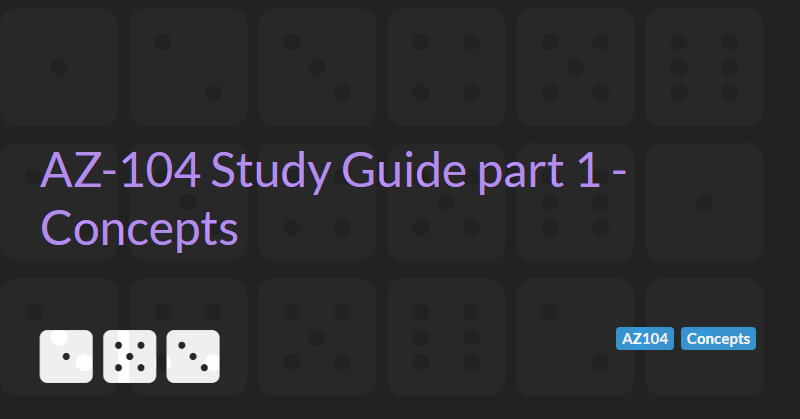
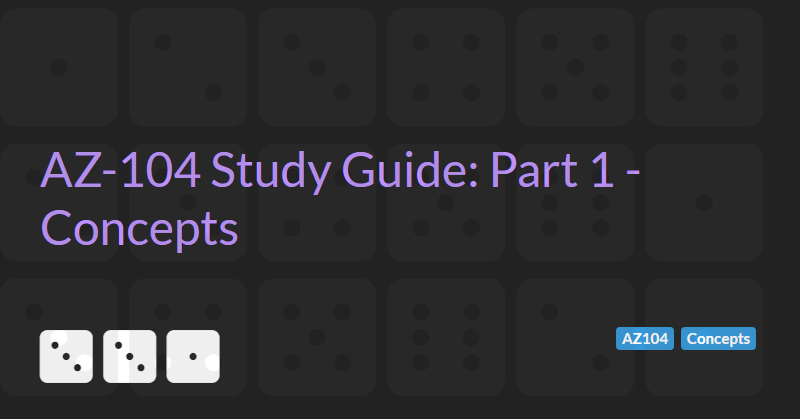
Blog Update 218

diff --git a/Blog/all.html b/Blog/all.html
@@ -58,7 +58,7 @@
 
 <ul class="list-group list-group-flush">
     <li class="list-group-item">
-        <h4><a href="./DataScienceForDevs/Part1-Foundations.html">Data Science for Developers part 1 - Foundations</a></h4>
+        <h4><a href="./DataScienceForDevs/Part1-Foundations.html">Data Science for Developers: Part 1 - Foundations</a></h4>
         <div>
             <span class="badge badge-info">DataScience</span>
             <span class="badge badge-info">ML</span>
@@ -93,7 +93,7 @@
             <p class="text-muted">May 21, 2024</p>
     </li>
     <li class="list-group-item">
-        <h4><a href="./Azure/AZ-104-StudyNotes/Part6-VirtualMachines.html">AZ-105 Study Guide part 6 - Virtual Machines</a></h4>
+        <h4><a href="./Azure/AZ-104-StudyNotes/Part6-VirtualMachines.html">AZ-105 Study Guide: Part 6 - Virtual Machines</a></h4>
         <div>
             <span class="badge badge-info">AZ104</span>
             <span class="badge badge-info">Concepts</span>
@@ -105,7 +105,7 @@
             <p class="text-muted">Aug 17, 2022</p>
     </li>
     <li class="list-group-item">
-        <h4><a href="./Azure/AZ-104-StudyNotes/Part5-StorageAccounts.html">AZ-104 Study Guide part 5 - Storage Accounts</a></h4>
+        <h4><a href="./Azure/AZ-104-StudyNotes/Part5-StorageAccounts.html">AZ-104 Study Guide: Part 5 - Storage Accounts</a></h4>
         <div>
             <span class="badge badge-info">AZ104</span>
             <span class="badge badge-info">Concepts</span>
@@ -117,7 +117,7 @@
             <p class="text-muted">Aug 10, 2022</p>
     </li>
     <li class="list-group-item">
-        <h4><a href="./Azure/AZ-104-StudyNotes/Part1-Concepts.html">AZ-104 Study Guide part 1 - Concepts</a></h4>
+        <h4><a href="./Azure/AZ-104-StudyNotes/Part1-Concepts.html">AZ-104 Study Guide: Part 1 - Concepts</a></h4>
         <div>
             <span class="badge badge-info">AZ104</span>
             <span class="badge badge-info">Concepts</span>
@@ -128,7 +128,7 @@
             <p class="text-muted">Aug 09, 2022</p>
     </li>
     <li class="list-group-item">
-        <h4><a href="./Azure/AZ-104-StudyNotes/Part2-PowershellAndCLI.html">AZ-104 Study Guide part 2 - PowerShell</a></h4>
+        <h4><a href="./Azure/AZ-104-StudyNotes/Part2-PowershellAndCLI.html">AZ-104 Study Guide: Part 2 - PowerShell</a></h4>
         <div>
             <span class="badge badge-info">AZ104</span>
             <span class="badge badge-info">Concepts</span>
@@ -141,7 +141,7 @@
             <p class="text-muted">Aug 09, 2022</p>
     </li>
     <li class="list-group-item">
-        <h4><a href="./Azure/AZ-104-StudyNotes/Part3-ManagingAzureIdentitiesAndGovernace.html">AZ-104 Study Guide part 3 - Azure Identities and Governance</a></h4>
+        <h4><a href="./Azure/AZ-104-StudyNotes/Part3-ManagingAzureIdentitiesAndGovernace.html">AZ-104 Study Guide: Part 3 - Azure Identities and Governance</a></h4>
         <div>
             <span class="badge badge-info">AZ104</span>
             <span class="badge badge-info">Concepts</span>
@@ -153,7 +153,7 @@
             <p class="text-muted">Aug 09, 2022</p>
     </li>
     <li class="list-group-item">
-        <h4><a href="./Azure/AZ-104-StudyNotes/Part4-ManagingSubscriptions.html">AZ-104 Study Guide part 4 - Managing Subscriptions</a></h4>
+        <h4><a href="./Azure/AZ-104-StudyNotes/Part4-ManagingSubscriptions.html">AZ-104 Study Guide: Part 4 - Managing Subscriptions</a></h4>
         <div>
             <span class="badge badge-info">AZ104</span>
             <span class="badge badge-info">Concepts</span>
@@ -176,7 +176,7 @@
             <p class="text-muted">Jun 01, 2022</p>
     </li>
     <li class="list-group-item">
-        <h4><a href="./Azure/DP-203-StudyNotes/Part2-CosmosDB.html">DP-203 Study Guide part 2 - Cosmos DB</a></h4>
+        <h4><a href="./Azure/DP-203-StudyNotes/Part2-CosmosDB.html">DP-203 Study Guide: Part 2 - Cosmos DB</a></h4>
         <div>
             <span class="badge badge-info">DP203</span>
             <span class="badge badge-info">Cosmos</span>
@@ -188,7 +188,7 @@
             <p class="text-muted">May 16, 2022</p>
     </li>
     <li class="list-group-item">
-        <h4><a href="./Azure/DP-203-StudyNotes/Part1-StorageAccounts.html">DP-203 Study Guide part 1 - storage accounts</a></h4>
+        <h4><a href="./Azure/DP-203-StudyNotes/Part1-StorageAccounts.html">DP-203 Study Guide: Part 1 - storage accounts</a></h4>
         <div>
             <span class="badge badge-info">DP203</span>
             <span class="badge badge-info">Azure</span>

diff --git a/Blog/index.html b/Blog/index.html
@@ -59,7 +59,7 @@
 
 <ul class="list-group list-group-flush">
     <li class="list-group-item">
-        <h4><a href="./DataScienceForDevs/Part1-Foundations.html">Data Science for Developers part 1 - Foundations</a></h4>
+        <h4><a href="./DataScienceForDevs/Part1-Foundations.html">Data Science for Developers: Part 1 - Foundations</a></h4>
         <div>
             <span class="badge badge-info">DataScience</span>
             <span class="badge badge-info">ML</span>
@@ -94,7 +94,7 @@
             <p class="text-muted">May 21, 2024</p>
     </li>
     <li class="list-group-item">
-        <h4><a href="./Azure/AZ-104-StudyNotes/Part6-VirtualMachines.html">AZ-105 Study Guide part 6 - Virtual Machines</a></h4>
+        <h4><a href="./Azure/AZ-104-StudyNotes/Part6-VirtualMachines.html">AZ-105 Study Guide: Part 6 - Virtual Machines</a></h4>
         <div>
             <span class="badge badge-info">AZ104</span>
             <span class="badge badge-info">Concepts</span>
@@ -106,7 +106,7 @@
             <p class="text-muted">Aug 17, 2022</p>
     </li>
     <li class="list-group-item">
-        <h4><a href="./Azure/AZ-104-StudyNotes/Part5-StorageAccounts.html">AZ-104 Study Guide part 5 - Storage Accounts</a></h4>
+        <h4><a href="./Azure/AZ-104-StudyNotes/Part5-StorageAccounts.html">AZ-104 Study Guide: Part 5 - Storage Accounts</a></h4>
         <div>
             <span class="badge badge-info">AZ104</span>
             <span class="badge badge-info">Concepts</span>
@@ -118,7 +118,7 @@
             <p class="text-muted">Aug 10, 2022</p>
     </li>
     <li class="list-group-item">
-        <h4><a href="./Azure/AZ-104-StudyNotes/Part1-Concepts.html">AZ-104 Study Guide part 1 - Concepts</a></h4>
+        <h4><a href="./Azure/AZ-104-StudyNotes/Part1-Concepts.html">AZ-104 Study Guide: Part 1 - Concepts</a></h4>
         <div>
             <span class="badge badge-info">AZ104</span>
             <span class="badge badge-info">Concepts</span>
@@ -129,7 +129,7 @@
             <p class="text-muted">Aug 09, 2022</p>
     </li>
     <li class="list-group-item">
-        <h4><a href="./Azure/AZ-104-StudyNotes/Part2-PowershellAndCLI.html">AZ-104 Study Guide part 2 - PowerShell</a></h4>
+        <h4><a href="./Azure/AZ-104-StudyNotes/Part2-PowershellAndCLI.html">AZ-104 Study Guide: Part 2 - PowerShell</a></h4>
         <div>
             <span class="badge badge-info">AZ104</span>
             <span class="badge badge-info">Concepts</span>
@@ -142,7 +142,7 @@
             <p class="text-muted">Aug 09, 2022</p>
     </li>
     <li class="list-group-item">
-        <h4><a href="./Azure/AZ-104-StudyNotes/Part3-ManagingAzureIdentitiesAndGovernace.html">AZ-104 Study Guide part 3 - Azure Identities and Governance</a></h4>
+        <h4><a href="./Azure/AZ-104-StudyNotes/Part3-ManagingAzureIdentitiesAndGovernace.html">AZ-104 Study Guide: Part 3 - Azure Identities and Governance</a></h4>
         <div>
             <span class="badge badge-info">AZ104</span>
             <span class="badge badge-info">Concepts</span>
@@ -154,7 +154,7 @@
             <p class="text-muted">Aug 09, 2022</p>
     </li>
     <li class="list-group-item">
-        <h4><a href="./Azure/AZ-104-StudyNotes/Part4-ManagingSubscriptions.html">AZ-104 Study Guide part 4 - Managing Subscriptions</a></h4>
+        <h4><a href="./Azure/AZ-104-StudyNotes/Part4-ManagingSubscriptions.html">AZ-104 Study Guide: Part 4 - Managing Subscriptions</a></h4>
         <div>
             <span class="badge badge-info">AZ104</span>
             <span class="badge badge-info">Concepts</span>

diff --git a/Blog/DataScienceForDevs/Part1-Foundations.html b/Blog/DataScienceForDevs/Part1-Foundations.html
@@ -8,7 +8,7 @@
           content="script-src 'self' 'unsafe-inline' https://www.sixsideddice.com https://cdn.jsdelivr.net https://kit.fontawesome.com https://code.jquery.com https://www.googletagmanager.com;" />
 
     <link href="/favicon.ico" rel="icon" type="image/x-icon">
-    <title>Data Science for Developers part 1 - Foundations - SixSidedDice.com - Blog</title>
+    <title>Data Science for Developers: Part 1 - Foundations - SixSidedDice.com - Blog</title>
     <link rel="stylesheet" href="https://www.sixsideddice.com/css//bootstrapdarkly.min.css">
     <link rel="stylesheet" href="https://cdn.jsdelivr.net/npm/prismjs@1.25.0/themes/prism-okaidia.css" integrity="sha256-nwDipdLn93O1CZGoRDor0i4CLmDQb+mdg/yaYMUCuLM=" crossorigin="anonymous">
     <link rel="stylesheet" href="https://www.sixsideddice.com/css/site.css">
@@ -30,12 +30,12 @@
     <meta name="twitter:card" content="summary_large_image">
     <meta name="twitter:site" content="@SixSidedDev">
     <meta name="twitter:creator" content="@SixSidedDev">
-    <meta name="twitter:title" content="Data Science for Developers part 1 - Foundations">
+    <meta name="twitter:title" content="Data Science for Developers: Part 1 - Foundations">
     <meta name="twitter:description" content="Part 1 of my series of developer guides on understanding and applying data science. This part focuses on the foundational skills and knowledge I believe every developer needs to get started with data science.">
     <meta name="twitter:image" content="https://www.sixsideddice.com/Blog/DataScienceForDevs/Part1-Foundations.png">
     <!-- Open Graph -->
     <meta property="og:type" content="article">
-    <meta name="title" property="og:title" content="Data Science for Developers part 1 - Foundations">
+    <meta name="title" property="og:title" content="Data Science for Developers: Part 1 - Foundations">
     <meta name="description" property="og:description" content="Part 1 of my series of developer guides on understanding and applying data science. This part focuses on the foundational skills and knowledge I believe every developer needs to get started with data science.">
     <meta name="image" property="og:image" content="https://www.sixsideddice.com/Blog/DataScienceForDevs/Part1-Foundations.png">
     <meta property="og:url" content="https://www.sixsideddice.com/Blog/DataScienceForDevs/Part1-Foundations.html">

diff --git a/Blog/Azure/AZ-104-StudyNotes/Part3-ManagingAzureIdentitiesAndGovernace.html b/Blog/Azure/AZ-104-StudyNotes/Part3-ManagingAzureIdentitiesAndGovernace.html
@@ -8,7 +8,7 @@
           content="script-src 'self' 'unsafe-inline' https://www.sixsideddice.com https://cdn.jsdelivr.net https://kit.fontawesome.com https://code.jquery.com https://www.googletagmanager.com;" />
 
     <link href="/favicon.ico" rel="icon" type="image/x-icon">
-    <title>AZ-104 Study Guide part 3 - Azure Identities and Governance - SixSidedDice.com - Blog</title>
+    <title>AZ-104 Study Guide: Part 3 - Azure Identities and Governance - SixSidedDice.com - Blog</title>
     <link rel="stylesheet" href="https://www.sixsideddice.com/css//bootstrapdarkly.min.css">
     <link rel="stylesheet" href="https://cdn.jsdelivr.net/npm/prismjs@1.25.0/themes/prism-okaidia.css" integrity="sha256-nwDipdLn93O1CZGoRDor0i4CLmDQb+mdg/yaYMUCuLM=" crossorigin="anonymous">
     <link rel="stylesheet" href="https://www.sixsideddice.com/css/site.css">
@@ -30,12 +30,12 @@
     <meta name="twitter:card" content="summary_large_image">
     <meta name="twitter:site" content="@SixSidedDev">
     <meta name="twitter:creator" content="@SixSidedDev">
-    <meta name="twitter:title" content="AZ-104 Study Guide part 3 - Azure Identities and Governance">
+    <meta name="twitter:title" content="AZ-104 Study Guide: Part 3 - Azure Identities and Governance">
     <meta name="twitter:description" content="Part 3 of the Azure Administrator study guide focusing on managing Azure Identities and governance">
     <meta name="twitter:image" content="https://www.sixsideddice.com/Blog/Azure/AZ-104-StudyNotes/Part3-ManagingAzureIdentitiesAndGovernace.png">
     <!-- Open Graph -->
     <meta property="og:type" content="article">
-    <meta name="title" property="og:title" content="AZ-104 Study Guide part 3 - Azure Identities and Governance">
+    <meta name="title" property="og:title" content="AZ-104 Study Guide: Part 3 - Azure Identities and Governance">
     <meta name="description" property="og:description" content="Part 3 of the Azure Administrator study guide focusing on managing Azure Identities and governance">
     <meta name="image" property="og:image" content="https://www.sixsideddice.com/Blog/Azure/AZ-104-StudyNotes/Part3-ManagingAzureIdentitiesAndGovernace.png">
     <meta property="og:url" content="https://www.sixsideddice.com/Blog/Azure/AZ-104-StudyNotes/Part3-ManagingAzureIdentitiesAndGovernace.html">

diff --git a/Blog/Azure/AZ-104-StudyNotes/Part4-ManagingSubscriptions.html b/Blog/Azure/AZ-104-StudyNotes/Part4-ManagingSubscriptions.html
@@ -8,7 +8,7 @@
           content="script-src 'self' 'unsafe-inline' https://www.sixsideddice.com https://cdn.jsdelivr.net https://kit.fontawesome.com https://code.jquery.com https://www.googletagmanager.com;" />
 
     <link href="/favicon.ico" rel="icon" type="image/x-icon">
-    <title>AZ-104 Study Guide part 4 - Managing Subscriptions - SixSidedDice.com - Blog</title>
+    <title>AZ-104 Study Guide: Part 4 - Managing Subscriptions - SixSidedDice.com - Blog</title>
     <link rel="stylesheet" href="https://www.sixsideddice.com/css//bootstrapdarkly.min.css">
     <link rel="stylesheet" href="https://cdn.jsdelivr.net/npm/prismjs@1.25.0/themes/prism-okaidia.css" integrity="sha256-nwDipdLn93O1CZGoRDor0i4CLmDQb+mdg/yaYMUCuLM=" crossorigin="anonymous">
     <link rel="stylesheet" href="https://www.sixsideddice.com/css/site.css">
@@ -30,12 +30,12 @@
     <meta name="twitter:card" content="summary_large_image">
     <meta name="twitter:site" content="@SixSidedDev">
     <meta name="twitter:creator" content="@SixSidedDev">
-    <meta name="twitter:title" content="AZ-104 Study Guide part 4 - Managing Subscriptions">
+    <meta name="twitter:title" content="AZ-104 Study Guide: Part 4 - Managing Subscriptions">
     <meta name="twitter:description" content="Part 4 of the Azure Administrator study guide focusing on managing Azure Subscriptions">
     <meta name="twitter:image" content="https://www.sixsideddice.com/Blog/Azure/AZ-104-StudyNotes/Part4-ManagingSubscriptions.png">
     <!-- Open Graph -->
     <meta property="og:type" content="article">
-    <meta name="title" property="og:title" content="AZ-104 Study Guide part 4 - Managing Subscriptions">
+    <meta name="title" property="og:title" content="AZ-104 Study Guide: Part 4 - Managing Subscriptions">
     <meta name="description" property="og:description" content="Part 4 of the Azure Administrator study guide focusing on managing Azure Subscriptions">
     <meta name="image" property="og:image" content="https://www.sixsideddice.com/Blog/Azure/AZ-104-StudyNotes/Part4-ManagingSubscriptions.png">
     <meta property="og:url" content="https://www.sixsideddice.com/Blog/Azure/AZ-104-StudyNotes/Part4-ManagingSubscriptions.html">

diff --git a/Blog/Azure/DP-203-StudyNotes/Part1-StorageAccounts.html b/Blog/Azure/DP-203-StudyNotes/Part1-StorageAccounts.html
@@ -8,7 +8,7 @@
           content="script-src 'self' 'unsafe-inline' https://www.sixsideddice.com https://cdn.jsdelivr.net https://kit.fontawesome.com https://code.jquery.com https://www.googletagmanager.com;" />
 
     <link href="/favicon.ico" rel="icon" type="image/x-icon">
-    <title>DP-203 Study Guide part 1 - storage accounts - SixSidedDice.com - Blog</title>
+    <title>DP-203 Study Guide: Part 1 - storage accounts - SixSidedDice.com - Blog</title>
     <link rel="stylesheet" href="https://www.sixsideddice.com/css//bootstrapdarkly.min.css">
     <link rel="stylesheet" href="https://cdn.jsdelivr.net/npm/prismjs@1.25.0/themes/prism-okaidia.css" integrity="sha256-nwDipdLn93O1CZGoRDor0i4CLmDQb+mdg/yaYMUCuLM=" crossorigin="anonymous">
     <link rel="stylesheet" href="https://www.sixsideddice.com/css/site.css">
@@ -30,12 +30,12 @@
     <meta name="twitter:card" content="summary_large_image">
     <meta name="twitter:site" content="@SixSidedDev">
     <meta name="twitter:creator" content="@SixSidedDev">
-    <meta name="twitter:title" content="DP-203 Study Guide part 1 - storage accounts">
+    <meta name="twitter:title" content="DP-203 Study Guide: Part 1 - storage accounts">
     <meta name="twitter:description" content="Part 1 of the Azure Data Engineering Associate study guide focusing on storage accounts">
     <meta name="twitter:image" content="https://www.sixsideddice.com/Blog/Azure/DP-203-StudyNotes/Part1-StorageAccounts.png">
     <!-- Open Graph -->
     <meta property="og:type" content="article">
-    <meta name="title" property="og:title" content="DP-203 Study Guide part 1 - storage accounts">
+    <meta name="title" property="og:title" content="DP-203 Study Guide: Part 1 - storage accounts">
     <meta name="description" property="og:description" content="Part 1 of the Azure Data Engineering Associate study guide focusing on storage accounts">
     <meta name="image" property="og:image" content="https://www.sixsideddice.com/Blog/Azure/DP-203-StudyNotes/Part1-StorageAccounts.png">
     <meta property="og:url" content="https://www.sixsideddice.com/Blog/Azure/DP-203-StudyNotes/Part1-StorageAccounts.html">

diff --git a/Blog/Azure/AZ-104-StudyNotes/Part5-StorageAccounts.html b/Blog/Azure/AZ-104-StudyNotes/Part5-StorageAccounts.html
@@ -8,7 +8,7 @@
           content="script-src 'self' 'unsafe-inline' https://www.sixsideddice.com https://cdn.jsdelivr.net https://kit.fontawesome.com https://code.jquery.com https://www.googletagmanager.com;" />
 
     <link href="/favicon.ico" rel="icon" type="image/x-icon">
-    <title>AZ-104 Study Guide part 5 - Storage Accounts - SixSidedDice.com - Blog</title>
+    <title>AZ-104 Study Guide: Part 5 - Storage Accounts - SixSidedDice.com - Blog</title>
     <link rel="stylesheet" href="https://www.sixsideddice.com/css//bootstrapdarkly.min.css">
     <link rel="stylesheet" href="https://cdn.jsdelivr.net/npm/prismjs@1.25.0/themes/prism-okaidia.css" integrity="sha256-nwDipdLn93O1CZGoRDor0i4CLmDQb+mdg/yaYMUCuLM=" crossorigin="anonymous">
     <link rel="stylesheet" href="https://www.sixsideddice.com/css/site.css">
@@ -30,12 +30,12 @@
     <meta name="twitter:card" content="summary_large_image">
     <meta name="twitter:site" content="@SixSidedDev">
     <meta name="twitter:creator" content="@SixSidedDev">
-    <meta name="twitter:title" content="AZ-104 Study Guide part 5 - Storage Accounts">
+    <meta name="twitter:title" content="AZ-104 Study Guide: Part 5 - Storage Accounts">
     <meta name="twitter:description" content="Part 5 of the Azure Administrator study guide focusing on managing storage accounts">
     <meta name="twitter:image" content="https://www.sixsideddice.com/Blog/Azure/AZ-104-StudyNotes/Part5-StorageAccounts.png">
     <!-- Open Graph -->
     <meta property="og:type" content="article">
-    <meta name="title" property="og:title" content="AZ-104 Study Guide part 5 - Storage Accounts">
+    <meta name="title" property="og:title" content="AZ-104 Study Guide: Part 5 - Storage Accounts">
     <meta name="description" property="og:description" content="Part 5 of the Azure Administrator study guide focusing on managing storage accounts">
     <meta name="image" property="og:image" content="https://www.sixsideddice.com/Blog/Azure/AZ-104-StudyNotes/Part5-StorageAccounts.png">
     <meta property="og:url" content="https://www.sixsideddice.com/Blog/Azure/AZ-104-StudyNotes/Part5-StorageAccounts.html">

diff --git a/Blog/Azure/AZ-104-StudyNotes/Part6-VirtualMachines.html b/Blog/Azure/AZ-104-StudyNotes/Part6-VirtualMachines.html
@@ -8,7 +8,7 @@
           content="script-src 'self' 'unsafe-inline' https://www.sixsideddice.com https://cdn.jsdelivr.net https://kit.fontawesome.com https://code.jquery.com https://www.googletagmanager.com;" />
 
     <link href="/favicon.ico" rel="icon" type="image/x-icon">
-    <title>AZ-105 Study Guide part 6 - Virtual Machines - SixSidedDice.com - Blog</title>
+    <title>AZ-105 Study Guide: Part 6 - Virtual Machines - SixSidedDice.com - Blog</title>
     <link rel="stylesheet" href="https://www.sixsideddice.com/css//bootstrapdarkly.min.css">
     <link rel="stylesheet" href="https://cdn.jsdelivr.net/npm/prismjs@1.25.0/themes/prism-okaidia.css" integrity="sha256-nwDipdLn93O1CZGoRDor0i4CLmDQb+mdg/yaYMUCuLM=" crossorigin="anonymous">
     <link rel="stylesheet" href="https://www.sixsideddice.com/css/site.css">
@@ -30,12 +30,12 @@
     <meta name="twitter:card" content="summary_large_image">
     <meta name="twitter:site" content="@SixSidedDev">
     <meta name="twitter:creator" content="@SixSidedDev">
-    <meta name="twitter:title" content="AZ-105 Study Guide part 6 - Virtual Machines">
+    <meta name="twitter:title" content="AZ-105 Study Guide: Part 6 - Virtual Machines">
     <meta name="twitter:description" content="Part 6 of the Azure Administrator study guide focusing on managing virtual machines">
     <meta name="twitter:image" content="https://www.sixsideddice.com/Blog/Azure/AZ-104-StudyNotes/Part6-VirtualMachines.png">
     <!-- Open Graph -->
     <meta property="og:type" content="article">
-    <meta name="title" property="og:title" content="AZ-105 Study Guide part 6 - Virtual Machines">
+    <meta name="title" property="og:title" content="AZ-105 Study Guide: Part 6 - Virtual Machines">
     <meta name="description" property="og:description" content="Part 6 of the Azure Administrator study guide focusing on managing virtual machines">
     <meta name="image" property="og:image" content="https://www.sixsideddice.com/Blog/Azure/AZ-104-StudyNotes/Part6-VirtualMachines.png">
     <meta property="og:url" content="https://www.sixsideddice.com/Blog/Azure/AZ-104-StudyNotes/Part6-VirtualMachines.html">

diff --git a/Blog/Azure/AZ-104-StudyNotes/Part2-PowershellAndCLI.html b/Blog/Azure/AZ-104-StudyNotes/Part2-PowershellAndCLI.html
@@ -8,7 +8,7 @@
           content="script-src 'self' 'unsafe-inline' https://www.sixsideddice.com https://cdn.jsdelivr.net https://kit.fontawesome.com https://code.jquery.com https://www.googletagmanager.com;" />
 
     <link href="/favicon.ico" rel="icon" type="image/x-icon">
-    <title>AZ-104 Study Guide part 2 - PowerShell - SixSidedDice.com - Blog</title>
+    <title>AZ-104 Study Guide: Part 2 - PowerShell - SixSidedDice.com - Blog</title>
     <link rel="stylesheet" href="https://www.sixsideddice.com/css//bootstrapdarkly.min.css">
     <link rel="stylesheet" href="https://cdn.jsdelivr.net/npm/prismjs@1.25.0/themes/prism-okaidia.css" integrity="sha256-nwDipdLn93O1CZGoRDor0i4CLmDQb+mdg/yaYMUCuLM=" crossorigin="anonymous">
     <link rel="stylesheet" href="https://www.sixsideddice.com/css/site.css">
@@ -30,12 +30,12 @@
     <meta name="twitter:card" content="summary_large_image">
     <meta name="twitter:site" content="@SixSidedDev">
     <meta name="twitter:creator" content="@SixSidedDev">
-    <meta name="twitter:title" content="AZ-104 Study Guide part 2 - PowerShell">
+    <meta name="twitter:title" content="AZ-104 Study Guide: Part 2 - PowerShell">
     <meta name="twitter:description" content="Part 2 of the Azure Administrator study guide focusing on Powershell and the Azure CLI">
     <meta name="twitter:image" content="https://www.sixsideddice.com/Blog/Azure/AZ-104-StudyNotes/Part2-PowershellAndCLI.png">
     <!-- Open Graph -->
     <meta property="og:type" content="article">
-    <meta name="title" property="og:title" content="AZ-104 Study Guide part 2 - PowerShell">
+    <meta name="title" property="og:title" content="AZ-104 Study Guide: Part 2 - PowerShell">
     <meta name="description" property="og:description" content="Part 2 of the Azure Administrator study guide focusing on Powershell and the Azure CLI">
     <meta name="image" property="og:image" content="https://www.sixsideddice.com/Blog/Azure/AZ-104-StudyNotes/Part2-PowershellAndCLI.png">
     <meta property="og:url" content="https://www.sixsideddice.com/Blog/Azure/AZ-104-StudyNotes/Part2-PowershellAndCLI.html">

diff --git a/Blog/Azure/DP-203-StudyNotes/Part2-CosmosDB.html b/Blog/Azure/DP-203-StudyNotes/Part2-CosmosDB.html
@@ -8,7 +8,7 @@
           content="script-src 'self' 'unsafe-inline' https://www.sixsideddice.com https://cdn.jsdelivr.net https://kit.fontawesome.com https://code.jquery.com https://www.googletagmanager.com;" />
 
     <link href="/favicon.ico" rel="icon" type="image/x-icon">
-    <title>DP-203 Study Guide part 2 - Cosmos DB - SixSidedDice.com - Blog</title>
+    <title>DP-203 Study Guide: Part 2 - Cosmos DB - SixSidedDice.com - Blog</title>
     <link rel="stylesheet" href="https://www.sixsideddice.com/css//bootstrapdarkly.min.css">
     <link rel="stylesheet" href="https://cdn.jsdelivr.net/npm/prismjs@1.25.0/themes/prism-okaidia.css" integrity="sha256-nwDipdLn93O1CZGoRDor0i4CLmDQb+mdg/yaYMUCuLM=" crossorigin="anonymous">
     <link rel="stylesheet" href="https://www.sixsideddice.com/css/site.css">
@@ -30,12 +30,12 @@
     <meta name="twitter:card" content="summary_large_image">
     <meta name="twitter:site" content="@SixSidedDev">
     <meta name="twitter:creator" content="@SixSidedDev">
-    <meta name="twitter:title" content="DP-203 Study Guide part 2 - Cosmos DB">
+    <meta name="twitter:title" content="DP-203 Study Guide: Part 2 - Cosmos DB">
     <meta name="twitter:description" content="Part 2 of the Azure Data Engineering Associate study guide focusing on Cosmos DB">
     <meta name="twitter:image" content="https://www.sixsideddice.com/Blog/Azure/DP-203-StudyNotes/Part2-CosmosDB.png">
     <!-- Open Graph -->
     <meta property="og:type" content="article">
-    <meta name="title" property="og:title" content="DP-203 Study Guide part 2 - Cosmos DB">
+    <meta name="title" property="og:title" content="DP-203 Study Guide: Part 2 - Cosmos DB">
     <meta name="description" property="og:description" content="Part 2 of the Azure Data Engineering Associate study guide focusing on Cosmos DB">
     <meta name="image" property="og:image" content="https://www.sixsideddice.com/Blog/Azure/DP-203-StudyNotes/Part2-CosmosDB.png">
     <meta property="og:url" content="https://www.sixsideddice.com/Blog/Azure/DP-203-StudyNotes/Part2-CosmosDB.html">

diff --git a/Blog/Azure/AZ-104-StudyNotes/Part1-Concepts.html b/Blog/Azure/AZ-104-StudyNotes/Part1-Concepts.html
@@ -8,7 +8,7 @@
           content="script-src 'self' 'unsafe-inline' https://www.sixsideddice.com https://cdn.jsdelivr.net https://kit.fontawesome.com https://code.jquery.com https://www.googletagmanager.com;" />
 
     <link href="/favicon.ico" rel="icon" type="image/x-icon">
-    <title>AZ-104 Study Guide part 1 - Concepts - SixSidedDice.com - Blog</title>
+    <title>AZ-104 Study Guide: Part 1 - Concepts - SixSidedDice.com - Blog</title>
     <link rel="stylesheet" href="https://www.sixsideddice.com/css//bootstrapdarkly.min.css">
     <link rel="stylesheet" href="https://cdn.jsdelivr.net/npm/prismjs@1.25.0/themes/prism-okaidia.css" integrity="sha256-nwDipdLn93O1CZGoRDor0i4CLmDQb+mdg/yaYMUCuLM=" crossorigin="anonymous">
     <link rel="stylesheet" href="https://www.sixsideddice.com/css/site.css">
@@ -30,12 +30,12 @@
     <meta name="twitter:card" content="summary_large_image">
     <meta name="twitter:site" content="@SixSidedDev">
     <meta name="twitter:creator" content="@SixSidedDev">
-    <meta name="twitter:title" content="AZ-104 Study Guide part 1 - Concepts">
+    <meta name="twitter:title" content="AZ-104 Study Guide: Part 1 - Concepts">
     <meta name="twitter:description" content="Part 1 of the Azure Administrator study guide focusing on core concepts">
     <meta name="twitter:image" content="https://www.sixsideddice.com/Blog/Azure/AZ-104-StudyNotes/Part1-Concepts.png">
     <!-- Open Graph -->
     <meta property="og:type" content="article">
-    <meta name="title" property="og:title" content="AZ-104 Study Guide part 1 - Concepts">
+    <meta name="title" property="og:title" content="AZ-104 Study Guide: Part 1 - Concepts">
     <meta name="description" property="og:description" content="Part 1 of the Azure Administrator study guide focusing on core concepts">
     <meta name="image" property="og:image" content="https://www.sixsideddice.com/Blog/Azure/AZ-104-StudyNotes/Part1-Concepts.png">
     <meta property="og:url" content="https://www.sixsideddice.com/Blog/Azure/AZ-104-StudyNotes/Part1-Concepts.html">
